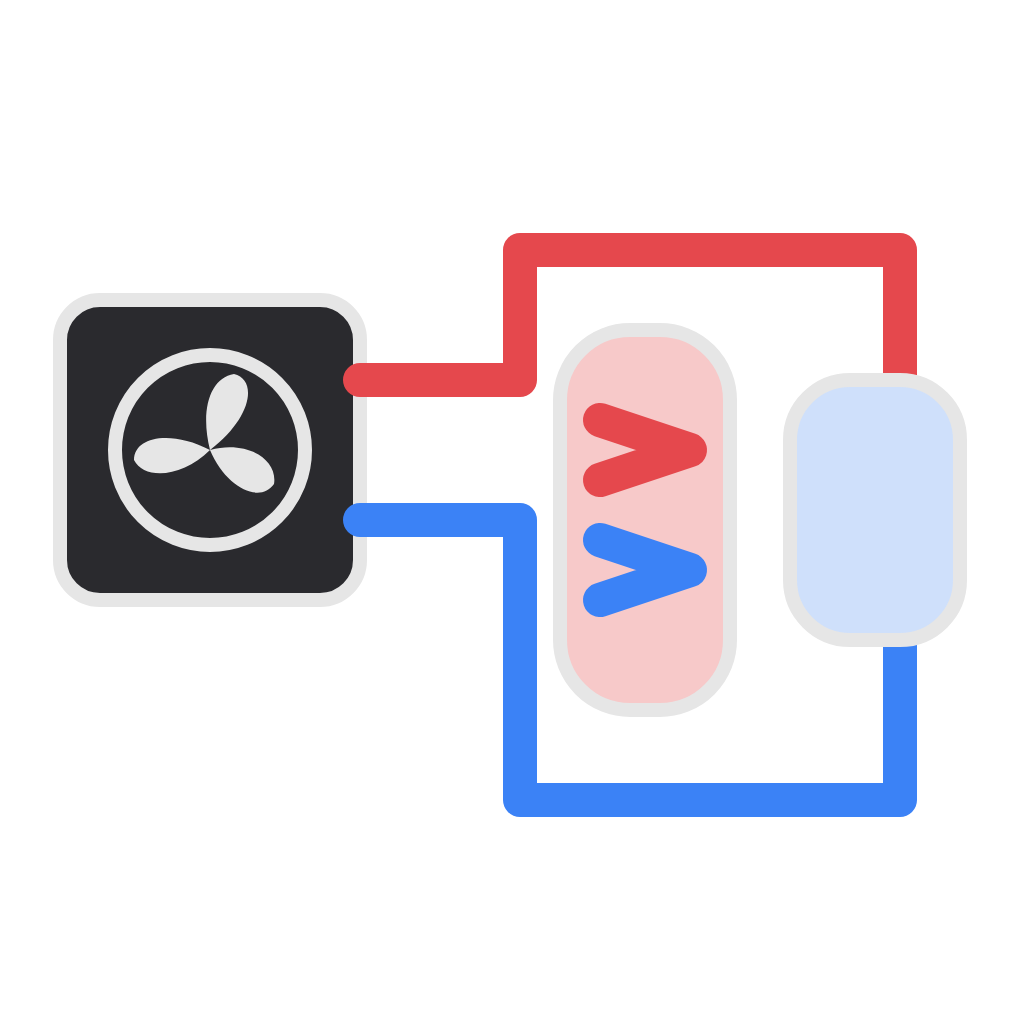
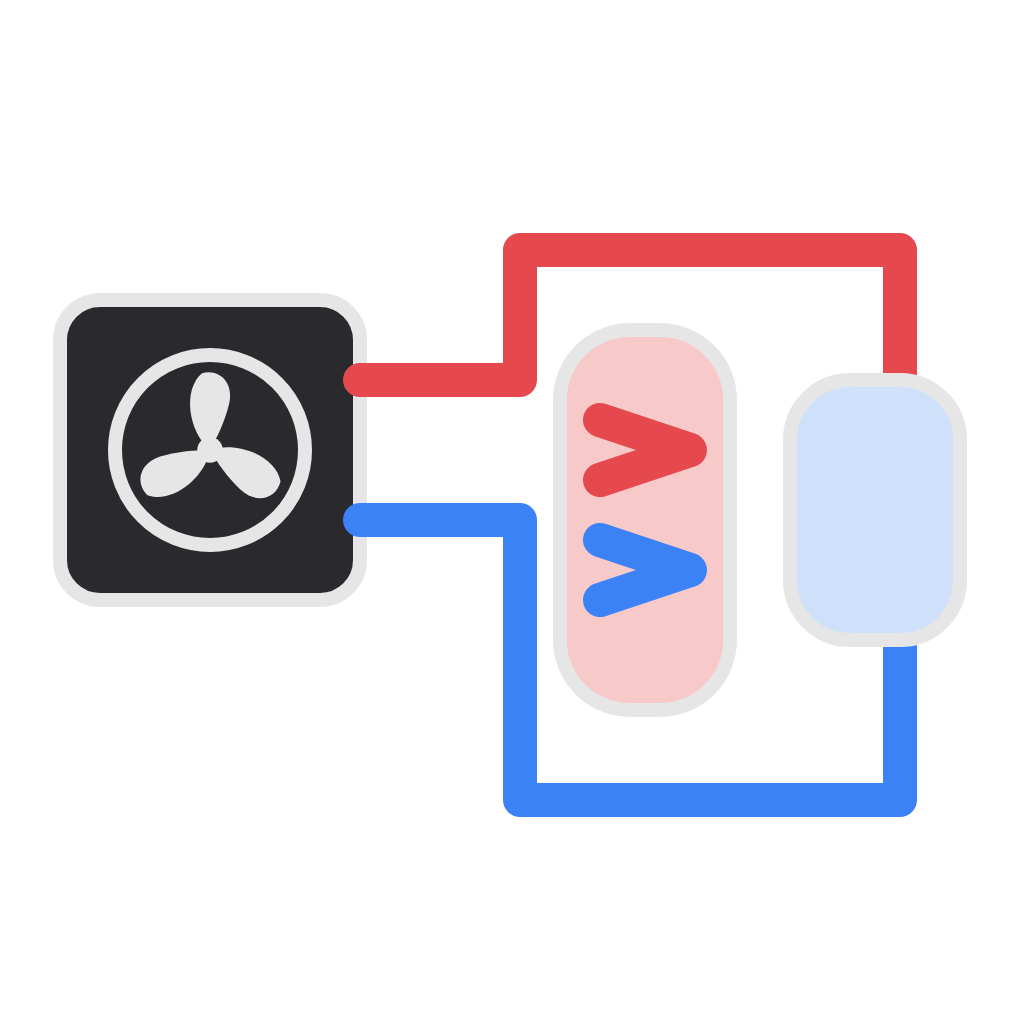
fix(widget): three equal fan blades turning about the hub

Changed region(s): [[0.125, 0.3438, 0.25, 0.5], [0.25, 0.4688, 0.2812, 0.5]]

diff --git a/widgets/overview/public/index.html b/widgets/overview/public/index.html
@@ -28,7 +28,8 @@
   .element rect { fill: #fdf2e0; stroke: #b7791f; stroke-width: 3; }
   .element.on rect { fill: #f6ad3c; }
   .cylinder.on rect.tank { stroke: #e5484d; stroke-width: 6; }
-  .fan { transform-origin: 150px 365px; }
+  /* The fan group sits at the hub (0 0), so it turns about its own centre. */
+  .fan { transform-origin: 0 0; transform-box: view-box; }
   .on .fan { animation: spin 1.6s linear infinite; }
   @keyframes spin { to { transform: rotate(360deg); } }
   @media (prefers-reduced-motion: reduce) { .on .fan { animation: none; } }
@@ -63,8 +64,14 @@
     <rect class="box" x="20" y="250" width="225" height="235" rx="18" />
     <rect x="36" y="280" width="34" height="160" rx="6" fill="#dbe7fb" stroke="#3b82f6" stroke-width="3" />
     <circle class="ink" cx="150" cy="365" r="58" />
-    <g class="fan">
-      <path fill="currentColor" d="M150 365c-6-22 0-42 14-44 14 4 10 26-14 44zm0 0c22-6 40 6 38 20-8 12-28 2-38-20zm0 0c-16 16-38 18-44 6 0-14 22-18 44-6z" />
+    <!-- three equal blades at 120°, turning about the hub -->
+    <g transform="translate(150 365)">
+      <g class="fan">
+        <path id="blade" fill="currentColor" d="M0 0C-14-12-17-38-5-48C5-51 15-43 12-29C9-17 5-9 0 0Z" />
+        <use href="#blade" transform="rotate(120)" />
+        <use href="#blade" transform="rotate(240)" />
+        <circle r="8" fill="currentColor" />
+      </g>
     </g>
     <text class="value" x="132" y="470" text-anchor="middle" data-text="compressor" />
   </g>
